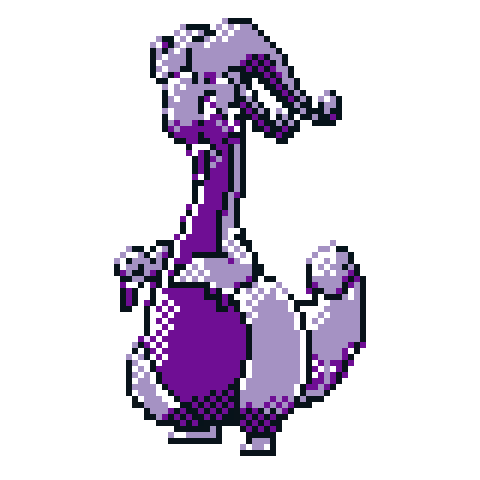
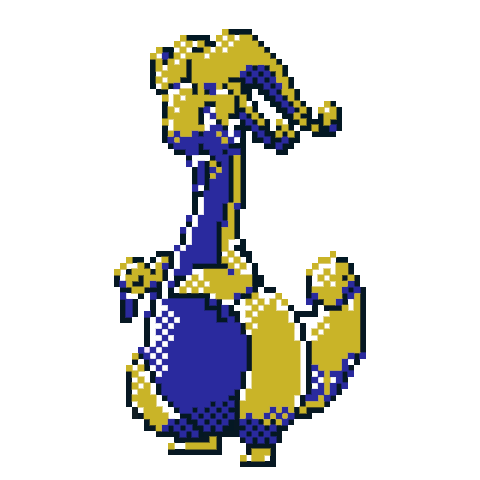
add theme

Changed region(s): [[0.2188, 0.0312, 0.7812, 1.0]]

diff --git a/src/mycustom-theme.ts b/src/mycustom-theme.ts
@@ -1,0 +1,103 @@
+
+import type { CustomThemeConfig } from '@skeletonlabs/tw-plugin';
+
+export const myCustomTheme: CustomThemeConfig = {
+    name: 'my-custom-theme',
+    properties: {
+		// =~= Theme Properties =~=
+		"--theme-font-family-base": `ui-monospace, SFMono-Regular, Menlo, Monaco, Consolas, 'Liberation Mono', 'Courier New', monospace`,
+		"--theme-font-family-heading": `ui-monospace, SFMono-Regular, Menlo, Monaco, Consolas, 'Liberation Mono', 'Courier New', monospace`,
+		"--theme-font-color-base": "0 0 0",
+		"--theme-font-color-dark": "255 255 255",
+		"--theme-rounded-base": "9999px",
+		"--theme-rounded-container": "8px",
+		"--theme-border-base": "1px",
+		// =~= Theme On-X Colors =~=
+		"--on-primary": "0 0 0",
+		"--on-secondary": "255 255 255",
+		"--on-tertiary": "0 0 0",
+		"--on-success": "0 0 0",
+		"--on-warning": "0 0 0",
+		"--on-error": "255 255 255",
+		"--on-surface": "255 255 255",
+		// =~= Theme Colors  =~=
+		// primary | #001D3D 
+		"--color-primary-50": "217 221 226", // #d9dde2
+		"--color-primary-100": "204 210 216", // #ccd2d8
+		"--color-primary-200": "191 199 207", // #bfc7cf
+		"--color-primary-300": "153 165 177", // #99a5b1
+		"--color-primary-400": "77 97 119", // #4d6177
+		"--color-primary-500": "0 29 61", // #001D3D
+		"--color-primary-600": "0 26 55", // #001a37
+		"--color-primary-700": "0 22 46", // #00162e
+		"--color-primary-800": "0 17 37", // #001125
+		"--color-primary-900": "0 14 30", // #000e1e
+		// secondary | #FFC300 
+		"--color-secondary-50": "255 246 217", // #fff6d9
+		"--color-secondary-100": "255 243 204", // #fff3cc
+		"--color-secondary-200": "255 240 191", // #fff0bf
+		"--color-secondary-300": "255 231 153", // #ffe799
+		"--color-secondary-400": "255 213 77", // #ffd54d
+		"--color-secondary-500": "255 195 0", // #FFC300
+		"--color-secondary-600": "230 176 0", // #e6b000
+		"--color-secondary-700": "191 146 0", // #bf9200
+		"--color-secondary-800": "153 117 0", // #997500
+		"--color-secondary-900": "125 96 0", // #7d6000
+		// tertiary | #003566 
+		"--color-tertiary-50": "217 225 232", // #d9e1e8
+		"--color-tertiary-100": "204 215 224", // #ccd7e0
+		"--color-tertiary-200": "191 205 217", // #bfcdd9
+		"--color-tertiary-300": "153 174 194", // #99aec2
+		"--color-tertiary-400": "77 114 148", // #4d7294
+		"--color-tertiary-500": "0 53 102", // #003566
+		"--color-tertiary-600": "0 48 92", // #00305c
+		"--color-tertiary-700": "0 40 77", // #00284d
+		"--color-tertiary-800": "0 32 61", // #00203d
+		"--color-tertiary-900": "0 26 50", // #001a32
+		// success | #FFD60A 
+		"--color-success-50": "255 249 218", // #fff9da
+		"--color-success-100": "255 247 206", // #fff7ce
+		"--color-success-200": "255 245 194", // #fff5c2
+		"--color-success-300": "255 239 157", // #ffef9d
+		"--color-success-400": "255 226 84", // #ffe254
+		"--color-success-500": "255 214 10", // #FFD60A
+		"--color-success-600": "230 193 9", // #e6c109
+		"--color-success-700": "191 161 8", // #bfa108
+		"--color-success-800": "153 128 6", // #998006
+		"--color-success-900": "125 105 5", // #7d6905
+		// warning | #EAB308 
+		"--color-warning-50": "252 244 218", // #fcf4da
+		"--color-warning-100": "251 240 206", // #fbf0ce
+		"--color-warning-200": "250 236 193", // #faecc1
+		"--color-warning-300": "247 225 156", // #f7e19c
+		"--color-warning-400": "240 202 82", // #f0ca52
+		"--color-warning-500": "234 179 8", // #EAB308
+		"--color-warning-600": "211 161 7", // #d3a107
+		"--color-warning-700": "176 134 6", // #b08606
+		"--color-warning-800": "140 107 5", // #8c6b05
+		"--color-warning-900": "115 88 4", // #735804
+		// error | #D41976 
+		"--color-error-50": "249 221 234", // #f9ddea
+		"--color-error-100": "246 209 228", // #f6d1e4
+		"--color-error-200": "244 198 221", // #f4c6dd
+		"--color-error-300": "238 163 200", // #eea3c8
+		"--color-error-400": "225 94 159", // #e15e9f
+		"--color-error-500": "212 25 118", // #D41976
+		"--color-error-600": "191 23 106", // #bf176a
+		"--color-error-700": "159 19 89", // #9f1359
+		"--color-error-800": "127 15 71", // #7f0f47
+		"--color-error-900": "104 12 58", // #680c3a
+		// surface | #001D3D 
+		"--color-surface-50": "217 221 226", // #d9dde2
+		"--color-surface-100": "204 210 216", // #ccd2d8
+		"--color-surface-200": "191 199 207", // #bfc7cf
+		"--color-surface-300": "153 165 177", // #99a5b1
+		"--color-surface-400": "77 97 119", // #4d6177
+		"--color-surface-500": "0 29 61", // #001D3D
+		"--color-surface-600": "0 26 55", // #001a37
+		"--color-surface-700": "0 22 46", // #00162e
+		"--color-surface-800": "0 17 37", // #001125
+		"--color-surface-900": "0 14 30", // #000e1e
+		
+	}
+}

diff --git a/src/lib/components/Timer.svelte b/src/lib/components/Timer.svelte
@@ -8,7 +8,7 @@
         <div class="mr-10">
             <h1 class="mt-12">Health: </h1>
     </div>
-        <div>
+        <div class="z-0">
             <ProgressRadial meter="stroke-green-400" value={progress}>{progress}%</ProgressRadial>
         </div>
     </div>
@@ -18,7 +18,7 @@
         <div class="mr-10">
             <h1 class="mt-12">Mindfullness: </h1>
     </div>
-        <div>
+        <div class="z-0">
             <ProgressRadial meter="stroke-blue-400" value={progress}>{progress}%</ProgressRadial>
             
         </div>
@@ -29,7 +29,7 @@
         <div class="mr-10">
             <h1 class="mt-12">Schooling: </h1>
     </div>
-        <div>
+        <div class="z-0">
             <ProgressRadial meter="stroke-red-400" value={progress}>{progress}%</ProgressRadial>
         </div>
     </div>

diff --git a/tailwind.config.ts b/tailwind.config.ts
@@ -2,6 +2,7 @@ import { join } from 'path'
 import type { Config } from 'tailwindcss'
 import forms from '@tailwindcss/forms';
 import { skeleton } from '@skeletonlabs/tw-plugin'
+import { myCustomTheme } from './src/mycustom-theme'
 
 export default {
 	darkMode: 'class',
@@ -13,11 +14,8 @@ export default {
 		forms,
 		skeleton({
 			themes: {
-				preset: [
-					{
-						name: 'skeleton',
-						enhancements: true,
-					},
+				custom: [
+					myCustomTheme
 				],
 			},
 		}),

diff --git a/src/app.html b/src/app.html
@@ -7,7 +7,7 @@
 		<meta name="viewport" content="width=device-width" />
 		%sveltekit.head%
 	</head>
-	<body data-sveltekit-preload-data="hover" data-theme="skeleton">
+	<body data-sveltekit-preload-data="hover" data-theme="my-custom-theme">
 		<div style="display: contents">%sveltekit.body%</div>
 	</body>
 </html>
